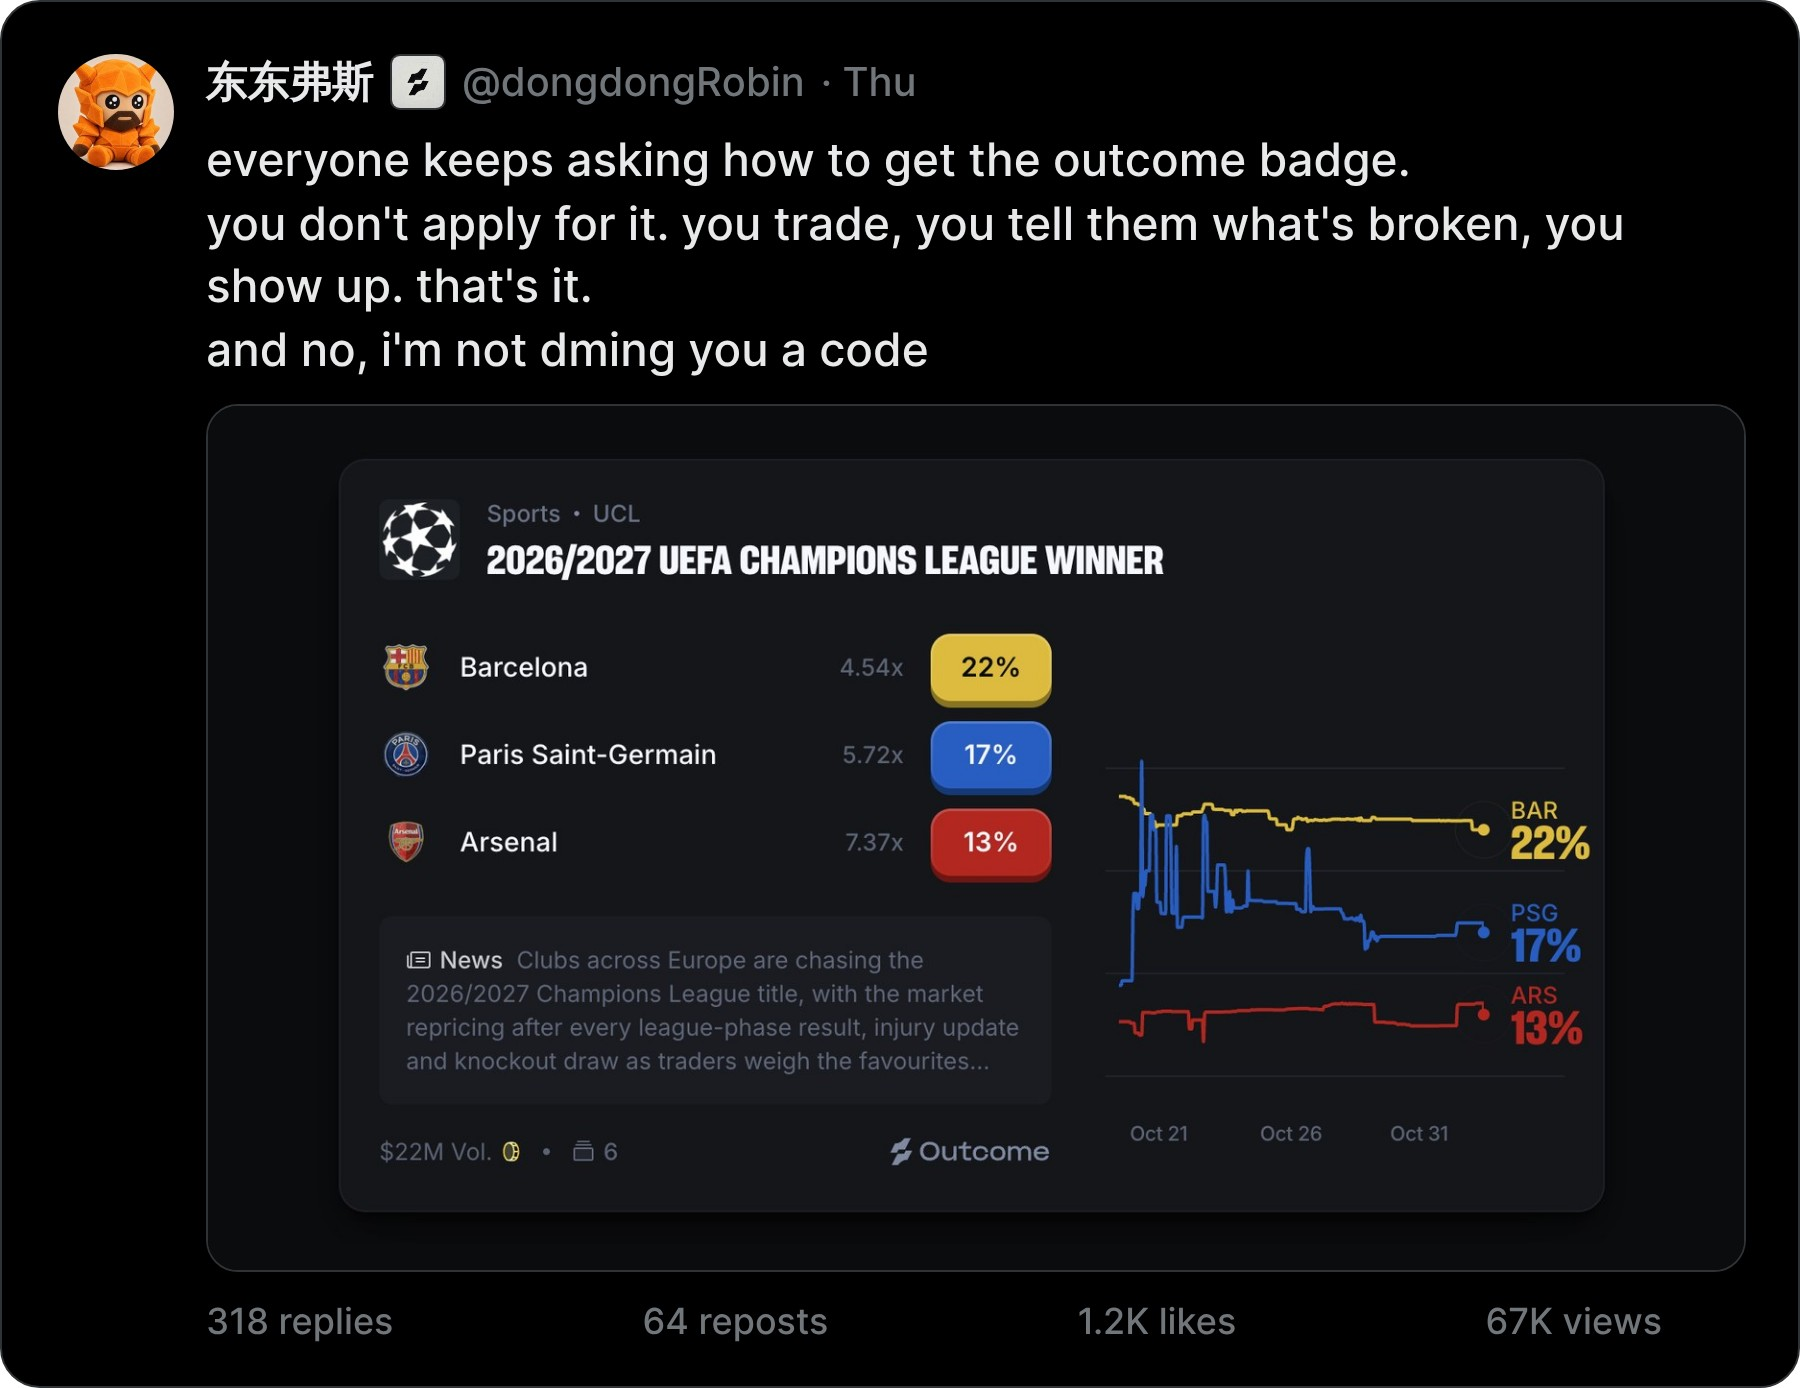
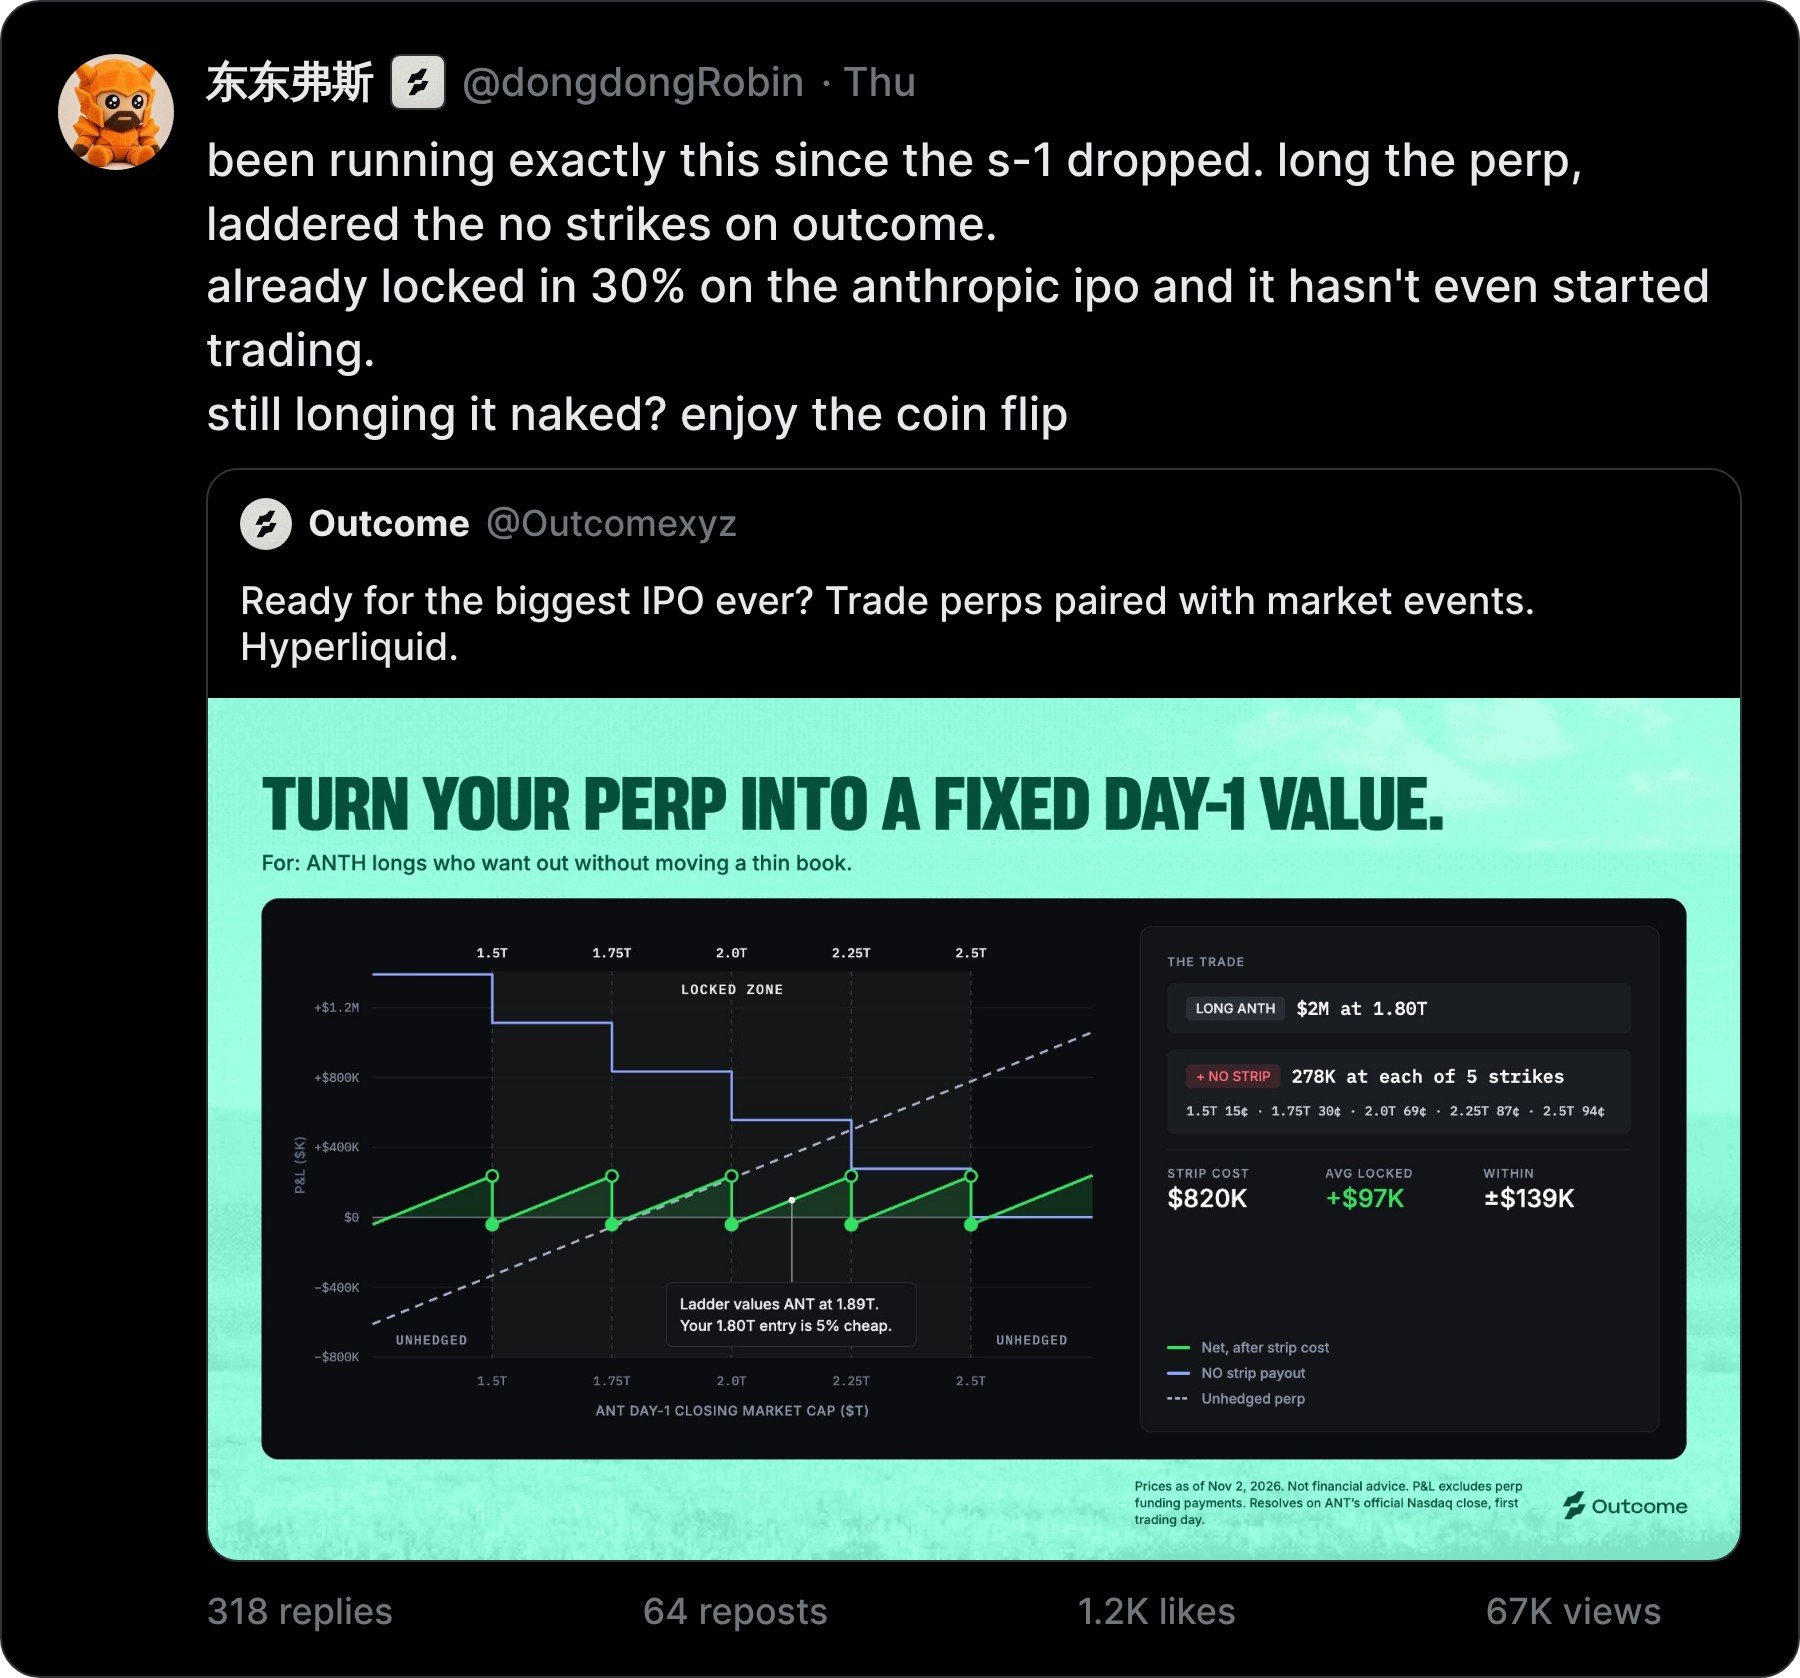
Community decks: mock post quotes the Anthropic IPO strategies post
Claude-Session: https://claude.ai/code/session_014PU9ujy91VW7m4JZPWrTgt

diff --git a/deck/obesepotato_hl/index.html b/deck/obesepotato_hl/index.html
@@ -114,7 +114,7 @@ section img[src$="wm.png"]{pointer-events:none}
 </div>
 <div style="display:flex;gap:64px;align-items:flex-start">
 <img src="/deck/obesepotato_hl/post_peek1.jpg" alt="Mock post by obese.potato: got my outcome badge this week, no idea what it’s for yet, early badges never end up meaning nothing, everyone’s farming points, i’m farming badges, with the Hall of Fame cards" style="width:736px;height:588px;object-fit:contain;border-radius:20px">
-<img src="/deck/obesepotato_hl/post_peek2.jpg" alt="Mock post by obese.potato: everyone keeps asking how to get the outcome badge, you don’t apply, you trade, tell them what’s broken and show up, and no, i’m not dming you a code" style="width:736px;height:588px;object-fit:contain;border-radius:20px">
+<img src="/deck/obesepotato_hl/post_peek2.jpg" alt="Mock post by obese.potato quoting Outcome’s Anthropic IPO strategies post: been running exactly this since the s-1 dropped, already locked in 30% on the anthropic ipo before it has started trading, still longing it naked? enjoy the coin flip" style="width:736px;height:588px;object-fit:contain;border-radius:20px">
 </div>
 <img src="/deck/_shared/logo_light.png" alt="Outcome" style="position:absolute;left:128px;bottom:64px;width:150px;height:34px;object-fit:contain">
 <p style="position:absolute;left:310px;bottom:64px;width:620px;font-size:24px;color:rgba(245,248,255,0.55)">Private brief for @Obesepotato_hl</p>

diff --git a/deck/dongdongrobin/index.html b/deck/dongdongrobin/index.html
@@ -114,7 +114,7 @@ section img[src$="wm.png"]{pointer-events:none}
 </div>
 <div style="display:flex;gap:64px;align-items:flex-start">
 <img src="/deck/dongdongrobin/post_peek1.jpg" alt="Mock post by 东东弗斯: got my outcome badge this week, no idea what it’s for yet, early badges never end up meaning nothing, everyone’s farming points, i’m farming badges, with the Hall of Fame cards" style="width:736px;height:588px;object-fit:contain;border-radius:20px">
-<img src="/deck/dongdongrobin/post_peek2.jpg" alt="Mock post by 东东弗斯: everyone keeps asking how to get the outcome badge, you don’t apply, you trade, tell them what’s broken and show up, and no, i’m not dming you a code" style="width:736px;height:588px;object-fit:contain;border-radius:20px">
+<img src="/deck/dongdongrobin/post_peek2.jpg" alt="Mock post by 东东弗斯 quoting Outcome’s Anthropic IPO strategies post: been running exactly this since the s-1 dropped, already locked in 30% on the anthropic ipo before it has started trading, still longing it naked? enjoy the coin flip" style="width:736px;height:588px;object-fit:contain;border-radius:20px">
 </div>
 <img src="/deck/_shared/logo_light.png" alt="Outcome" style="position:absolute;left:128px;bottom:64px;width:150px;height:34px;object-fit:contain">
 <p style="position:absolute;left:310px;bottom:64px;width:620px;font-size:24px;color:rgba(245,248,255,0.55)">Private brief for @dongdongRobin</p>

diff --git a/deck/hypeconomist/index.html b/deck/hypeconomist/index.html
@@ -114,7 +114,7 @@ section img[src$="wm.png"]{pointer-events:none}
 </div>
 <div style="display:flex;gap:64px;align-items:flex-start">
 <img src="/deck/hypeconomist/post_peek1.jpg" alt="Mock post by HYPEconomist: got my outcome badge this week, no idea what it’s for yet, early badges never end up meaning nothing, everyone’s farming points, i’m farming badges, with the Hall of Fame cards" style="width:736px;height:588px;object-fit:contain;border-radius:20px">
-<img src="/deck/hypeconomist/post_peek2.jpg" alt="Mock post by HYPEconomist: everyone keeps asking how to get the outcome badge, you don’t apply, you trade, tell them what’s broken and show up, and no, i’m not dming you a code" style="width:736px;height:588px;object-fit:contain;border-radius:20px">
+<img src="/deck/hypeconomist/post_peek2.jpg" alt="Mock post by HYPEconomist quoting Outcome’s Anthropic IPO strategies post: been running exactly this since the s-1 dropped, already locked in 30% on the anthropic ipo before it has started trading, still longing it naked? enjoy the coin flip" style="width:736px;height:588px;object-fit:contain;border-radius:20px">
 </div>
 <img src="/deck/_shared/logo_light.png" alt="Outcome" style="position:absolute;left:128px;bottom:64px;width:150px;height:34px;object-fit:contain">
 <p style="position:absolute;left:310px;bottom:64px;width:620px;font-size:24px;color:rgba(245,248,255,0.55)">Private brief for @HYPEconomist</p>

diff --git a/deck/buyingvol/index.html b/deck/buyingvol/index.html
@@ -114,7 +114,7 @@ section img[src$="wm.png"]{pointer-events:none}
 </div>
 <div style="display:flex;gap:64px;align-items:flex-start">
 <img src="/deck/buyingvol/post_peek1.jpg" alt="Mock post by That boiii: got my outcome badge this week, no idea what it’s for yet, early badges never end up meaning nothing, everyone’s farming points, i’m farming badges, with the Hall of Fame cards" style="width:736px;height:588px;object-fit:contain;border-radius:20px">
-<img src="/deck/buyingvol/post_peek2.jpg" alt="Mock post by That boiii: everyone keeps asking how to get the outcome badge, you don’t apply, you trade, tell them what’s broken and show up, and no, i’m not dming you a code" style="width:736px;height:588px;object-fit:contain;border-radius:20px">
+<img src="/deck/buyingvol/post_peek2.jpg" alt="Mock post by That boiii quoting Outcome’s Anthropic IPO strategies post: been running exactly this since the s-1 dropped, already locked in 30% on the anthropic ipo before it has started trading, still longing it naked? enjoy the coin flip" style="width:736px;height:588px;object-fit:contain;border-radius:20px">
 </div>
 <img src="/deck/_shared/logo_light.png" alt="Outcome" style="position:absolute;left:128px;bottom:64px;width:150px;height:34px;object-fit:contain">
 <p style="position:absolute;left:310px;bottom:64px;width:620px;font-size:24px;color:rgba(245,248,255,0.55)">Private brief for @BuyingVol</p>

diff --git a/deck/pangboygg/index.html b/deck/pangboygg/index.html
@@ -114,7 +114,7 @@ section img[src$="wm.png"]{pointer-events:none}
 </div>
 <div style="display:flex;gap:64px;align-items:flex-start">
 <img src="/deck/pangboygg/post_peek1.jpg" alt="Mock post by pangboy.hl: got my outcome badge this week, no idea what it’s for yet, early badges never end up meaning nothing, everyone’s farming points, i’m farming badges, with the Hall of Fame cards" style="width:736px;height:588px;object-fit:contain;border-radius:20px">
-<img src="/deck/pangboygg/post_peek2.jpg" alt="Mock post by pangboy.hl: everyone keeps asking how to get the outcome badge, you don’t apply, you trade, tell them what’s broken and show up, and no, i’m not dming you a code" style="width:736px;height:588px;object-fit:contain;border-radius:20px">
+<img src="/deck/pangboygg/post_peek2.jpg" alt="Mock post by pangboy.hl quoting Outcome’s Anthropic IPO strategies post: been running exactly this since the s-1 dropped, already locked in 30% on the anthropic ipo before it has started trading, still longing it naked? enjoy the coin flip" style="width:736px;height:588px;object-fit:contain;border-radius:20px">
 </div>
 <img src="/deck/_shared/logo_light.png" alt="Outcome" style="position:absolute;left:128px;bottom:64px;width:150px;height:34px;object-fit:contain">
 <p style="position:absolute;left:310px;bottom:64px;width:620px;font-size:24px;color:rgba(245,248,255,0.55)">Private brief for @pangboygg</p>

diff --git a/deck/enesonchain/index.html b/deck/enesonchain/index.html
@@ -114,7 +114,7 @@ section img[src$="wm.png"]{pointer-events:none}
 </div>
 <div style="display:flex;gap:64px;align-items:flex-start">
 <img src="/deck/enesonchain/post_peek1.jpg" alt="Mock post by enes.hl: got my outcome badge this week, no idea what it’s for yet, early badges never end up meaning nothing, everyone’s farming points, i’m farming badges, with the Hall of Fame cards" style="width:736px;height:588px;object-fit:contain;border-radius:20px">
-<img src="/deck/enesonchain/post_peek2.jpg" alt="Mock post by enes.hl: everyone keeps asking how to get the outcome badge, you don’t apply, you trade, tell them what’s broken and show up, and no, i’m not dming you a code" style="width:736px;height:588px;object-fit:contain;border-radius:20px">
+<img src="/deck/enesonchain/post_peek2.jpg" alt="Mock post by enes.hl quoting Outcome’s Anthropic IPO strategies post: been running exactly this since the s-1 dropped, already locked in 30% on the anthropic ipo before it has started trading, still longing it naked? enjoy the coin flip" style="width:736px;height:588px;object-fit:contain;border-radius:20px">
 </div>
 <img src="/deck/_shared/logo_light.png" alt="Outcome" style="position:absolute;left:128px;bottom:64px;width:150px;height:34px;object-fit:contain">
 <p style="position:absolute;left:310px;bottom:64px;width:620px;font-size:24px;color:rgba(245,248,255,0.55)">Private brief for @enesonchain</p>

diff --git a/deck/vexter/index.html b/deck/vexter/index.html
@@ -114,7 +114,7 @@ section img[src$="wm.png"]{pointer-events:none}
 </div>
 <div style="display:flex;gap:64px;align-items:flex-start">
 <img src="/deck/vexter/post_peek1.jpg" alt="Mock post by 0xVexter: got my outcome badge this week, no idea what it’s for yet, early badges never end up meaning nothing, everyone’s farming points, i’m farming badges, with the Hall of Fame cards" style="width:736px;height:588px;object-fit:contain;border-radius:20px">
-<img src="/deck/vexter/post_peek2.jpg" alt="Mock post by 0xVexter: everyone keeps asking how to get the outcome badge, you don’t apply, you trade, tell them what’s broken and show up, and no, i’m not dming you a code" style="width:736px;height:588px;object-fit:contain;border-radius:20px">
+<img src="/deck/vexter/post_peek2.jpg" alt="Mock post by 0xVexter quoting Outcome’s Anthropic IPO strategies post: been running exactly this since the s-1 dropped, already locked in 30% on the anthropic ipo before it has started trading, still longing it naked? enjoy the coin flip" style="width:736px;height:588px;object-fit:contain;border-radius:20px">
 </div>
 <img src="/deck/_shared/logo_light.png" alt="Outcome" style="position:absolute;left:128px;bottom:64px;width:150px;height:34px;object-fit:contain">
 <p style="position:absolute;left:310px;bottom:64px;width:620px;font-size:24px;color:rgba(245,248,255,0.55)">Private brief for @Vexter</p>

diff --git a/deck/mbxxvv/index.html b/deck/mbxxvv/index.html
@@ -114,7 +114,7 @@ section img[src$="wm.png"]{pointer-events:none}
 </div>
 <div style="display:flex;gap:64px;align-items:flex-start">
 <img src="/deck/mbxxvv/post_peek1.jpg" alt="Mock post by MB.hl: got my outcome badge this week, no idea what it’s for yet, early badges never end up meaning nothing, everyone’s farming points, i’m farming badges, with the Hall of Fame cards" style="width:736px;height:588px;object-fit:contain;border-radius:20px">
-<img src="/deck/mbxxvv/post_peek2.jpg" alt="Mock post by MB.hl: everyone keeps asking how to get the outcome badge, you don’t apply, you trade, tell them what’s broken and show up, and no, i’m not dming you a code" style="width:736px;height:588px;object-fit:contain;border-radius:20px">
+<img src="/deck/mbxxvv/post_peek2.jpg" alt="Mock post by MB.hl quoting Outcome’s Anthropic IPO strategies post: been running exactly this since the s-1 dropped, already locked in 30% on the anthropic ipo before it has started trading, still longing it naked? enjoy the coin flip" style="width:736px;height:588px;object-fit:contain;border-radius:20px">
 </div>
 <img src="/deck/_shared/logo_light.png" alt="Outcome" style="position:absolute;left:128px;bottom:64px;width:150px;height:34px;object-fit:contain">
 <p style="position:absolute;left:310px;bottom:64px;width:620px;font-size:24px;color:rgba(245,248,255,0.55)">Private brief for @MBxxvv</p>
